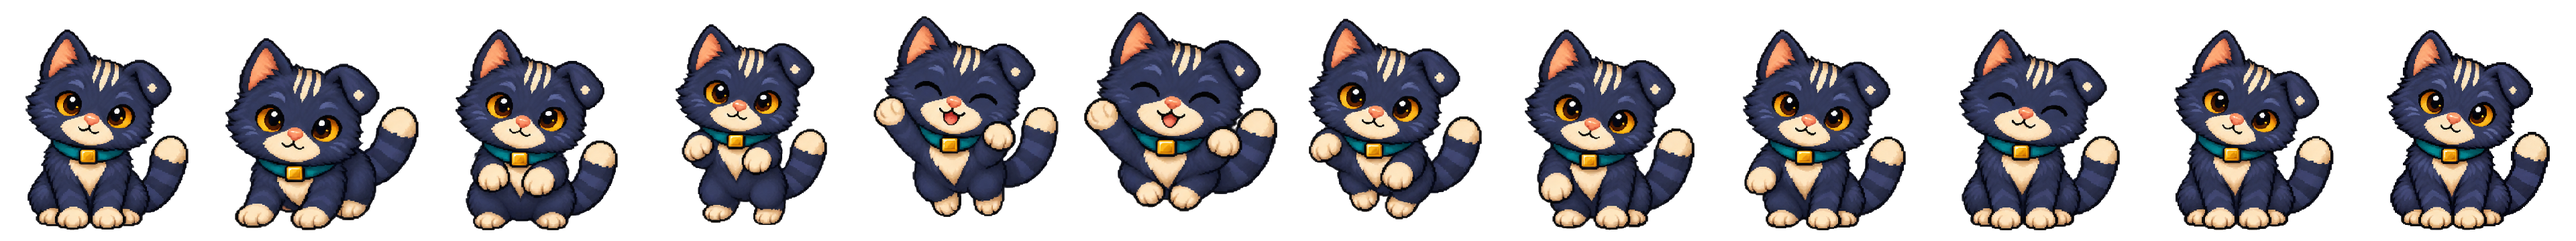
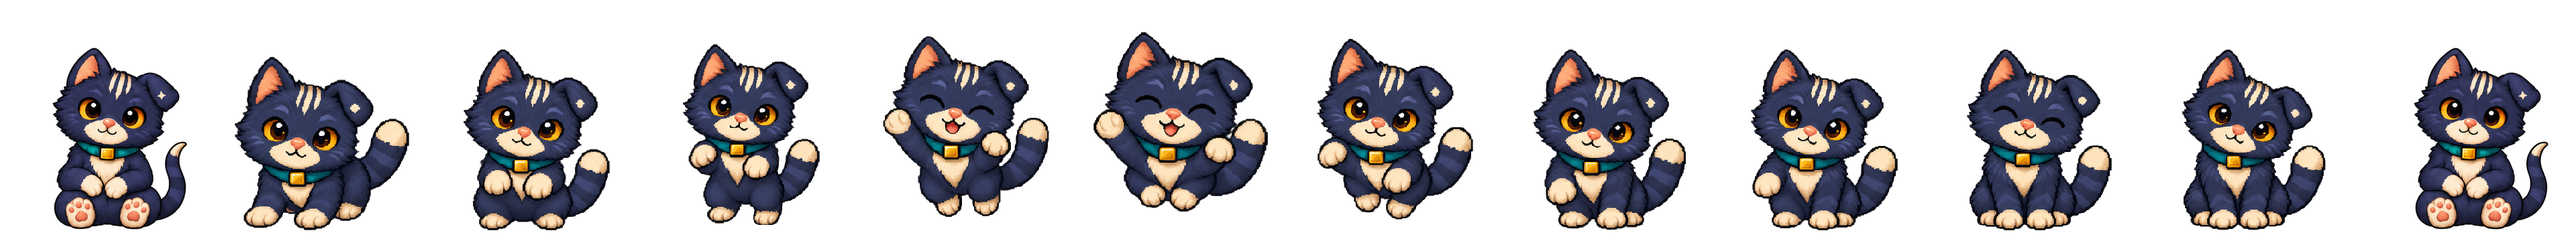
fix: align Michi celebration with seated idle pose

diff --git a/test/michi_transition_test.dart b/test/michi_transition_test.dart
@@ -1,0 +1,84 @@
+import 'dart:ui' as ui;
+
+import 'package:flutter/services.dart';
+import 'package:flutter_test/flutter_test.dart';
+import 'package:sobra_app/widgets/cat_sprite.dart';
+
+Future<List<Uint8List>> _frames(CharacterMotionRole role) async {
+  final character = CharacterCatalog.michi;
+  final motion = character.motionFor(role);
+  final bytes = await rootBundle.load(character.assetFor(role));
+  final codec = await ui.instantiateImageCodec(bytes.buffer.asUint8List());
+  final image = (await codec.getNextFrame()).image;
+  try {
+    final pixels = (await image.toByteData(
+      format: ui.ImageByteFormat.rawRgba,
+    ))!;
+    return List.generate(motion.frameCount, (index) {
+      final frame = Uint8List(320 * 360 * 4);
+      for (var y = 0; y < 360; y++) {
+        final row = pixels.buffer.asUint8List(
+          pixels.offsetInBytes + (y * image.width + index * 320) * 4,
+          320 * 4,
+        );
+        frame.setRange(y * 320 * 4, (y + 1) * 320 * 4, row);
+      }
+      return frame;
+    });
+  } finally {
+    image.dispose();
+    codec.dispose();
+  }
+}
+
+int _paintedHeight(Uint8List frame) {
+  var top = 360;
+  var bottom = 0;
+  for (var y = 0; y < 360; y++) {
+    for (var x = 0; x < 320; x++) {
+      if (frame[(y * 320 + x) * 4 + 3] < 96) continue;
+      if (y < top) top = y;
+      bottom = y + 1;
+    }
+  }
+  return bottom - top;
+}
+
+void main() {
+  TestWidgetsFlutterBinding.ensureInitialized();
+
+  test('Michi celebration opens and lands on the approved idle pose', () async {
+    final idle = await _frames(CharacterMotionRole.idle);
+    final success = await _frames(CharacterMotionRole.success);
+    final idleSpec = CharacterCatalog.michi.motionFor(CharacterMotionRole.idle);
+    final successSpec = CharacterCatalog.michi.motionFor(
+      CharacterMotionRole.success,
+    );
+    final approved = idle[idleSpec.playbackSpec.posterFrame];
+    expect(
+      success[successSpec.playbackSpec.playRange.start],
+      orderedEquals(approved),
+    );
+    expect(
+      success[successSpec.playbackSpec.completionFrame],
+      orderedEquals(approved),
+    );
+  });
+
+  test(
+    'Michi standing jump poses keep the approved idle body height',
+    () async {
+      final idle = await _frames(CharacterMotionRole.idle);
+      final success = await _frames(CharacterMotionRole.success);
+      final idleHeight = _paintedHeight(idle.first);
+      // Frame 1 crouches deliberately; later poses stand or jump at full size.
+      for (var index = 2; index <= 10; index++) {
+        expect(
+          _paintedHeight(success[index]) / idleHeight,
+          closeTo(1, 0.02),
+          reason: 'Michi must not shrink on landing from frame $index',
+        );
+      }
+    },
+  );
+}

diff --git a/lib/widgets/character_headroom.dart b/lib/widgets/character_headroom.dart
@@ -14,7 +14,7 @@ const characterTopRows = <String, Map<CharacterMotionRole, int>>{
     CharacterMotionRole.activity: 55,
     CharacterMotionRole.processing: 44,
     CharacterMotionRole.positive: 72,
-    CharacterMotionRole.success: 18,
+    CharacterMotionRole.success: 48,
     CharacterMotionRole.warning: 44,
   },
   'poodle': {
